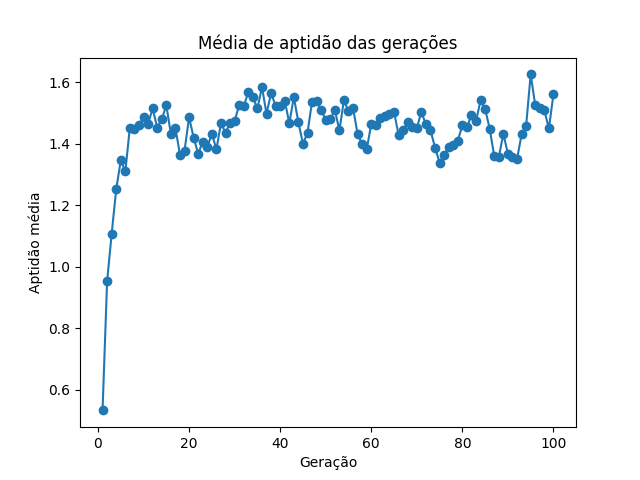
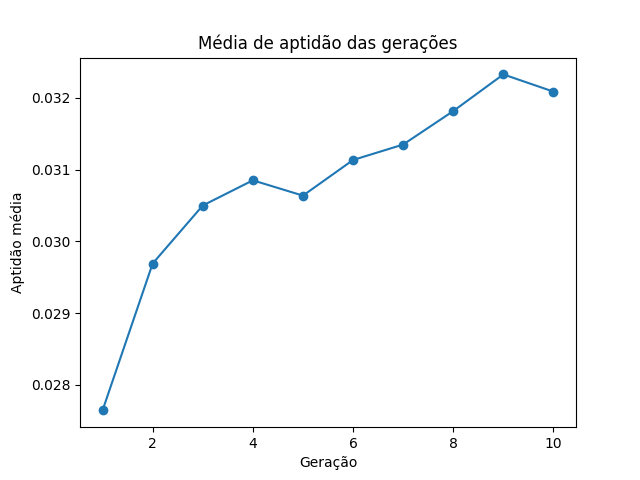
First commit.

diff --git a/database/database.py b/database/database.py
@@ -1,6 +1,7 @@
 from sqlalchemy import create_engine
 from sqlalchemy.orm import sessionmaker
 
+from models.availability import Availability
 from models.subject import Subject
 from models.teacher import Teacher
 from models.lesson import Lesson
@@ -13,6 +14,13 @@ class Database:
         self.engine = create_engine(SQLALCHEMY_URI)
         self.Session = sessionmaker(bind=self.engine)
         self.session = self.Session()
+
+    def get_availability(self):
+        availabilities = self.session.query(Availability).all()
+
+        self.session.close()
+
+        return availabilities
 
     def get_teachers(self):
         teachers = self.session.query(Teacher).all()
@@ -36,7 +44,8 @@ class Database:
         return lessons
 
     def create_database(self):
-        Base.metadata.create_all(self.engine, tables=[Subject.__table__, Teacher.__table__, Lesson.__table__])
+        Base.metadata.create_all(self.engine, tables=[Subject.__table__, Teacher.__table__, Lesson.__table__,
+                                                      Availability.__table__])
 
     def populate_database(self):
         teachers = [
@@ -51,16 +60,16 @@ class Database:
         ]
 
         subjects = [
-            Subject(id=1, name="FUNDAMENTOS DE MATEMÁTICA", code="FMAT", period=1, lessons_per_week=4),
-            Subject(id=2, name="ALGORITMOS E LÓGICA DE PROGRAMAÇÃO", code="ALGLP", period=1, lessons_per_week=6),
-            Subject(id=3, name="LÓGICA", code="LOG", period=1, lessons_per_week=4),
-            Subject(id=4, name="ESTRUTURA DE DADOS", code="ED", period=2, lessons_per_week=6),
-            Subject(id=5, name="INTRODUÇÃO A INFORMÁTICA", code="II", period=1, lessons_per_week=4),
-            Subject(id=6, name="TEORIA GERAL DA ADMINISTRAÇÃO", code="TGA", period=1, lessons_per_week=4),
-            Subject(id=7, name="FUNDAMENTOS DE SISTEMAS DE INFORMAÇÃO", code="FSI", period=2, lessons_per_week=4),
-            Subject(id=8, name="ORGANIZAÇÃO SISTEMAS E MÉTODOS", code="OSM", period=2, lessons_per_week=4),
-            Subject(id=9, name="PROGRAMAÇÃO ORIENTADA A OBJETOS I", code="POOI", period=2, lessons_per_week=4),
-            Subject(id=10, name="ÁLGEBRA LINEAR", code="AL", period=2, lessons_per_week=4)
+            Subject(id=1, name="FUNDAMENTOS DE MATEMÁTICA", code="FMAT", period=1, lessons_per_week=2),
+            Subject(id=2, name="ALGORITMOS E LÓGICA DE PROGRAMAÇÃO", code="ALGLP", period=1, lessons_per_week=3),
+            Subject(id=3, name="LÓGICA", code="LOG", period=1, lessons_per_week=2),
+            Subject(id=4, name="ESTRUTURA DE DADOS", code="ED", period=2, lessons_per_week=3),
+            Subject(id=5, name="INTRODUÇÃO A INFORMÁTICA", code="II", period=1, lessons_per_week=2),
+            Subject(id=6, name="TEORIA GERAL DA ADMINISTRAÇÃO", code="TGA", period=1, lessons_per_week=2),
+            Subject(id=7, name="FUNDAMENTOS DE SISTEMAS DE INFORMAÇÃO", code="FSI", period=2, lessons_per_week=2),
+            Subject(id=8, name="ORGANIZAÇÃO SISTEMAS E MÉTODOS", code="OSM", period=2, lessons_per_week=2),
+            Subject(id=9, name="PROGRAMAÇÃO ORIENTADA A OBJETOS I", code="POOI", period=2, lessons_per_week=2),
+            Subject(id=10, name="ÁLGEBRA LINEAR", code="AL", period=2, lessons_per_week=2)
 
         ]
 
@@ -77,7 +86,28 @@ class Database:
             Lesson(id=10, subject_id=10, teacher_id=8, semester="2012.1", teacher=teachers[7], subject=subjects[9])
         ]
 
+        availabilities = [
+            Availability(id=1, teacher_id=1, day_of_week=1, teacher=teachers[0]),
+            Availability(id=2, teacher_id=1, day_of_week=4, teacher=teachers[0]),
+            Availability(id=3, teacher_id=2, day_of_week=0, teacher=teachers[1]),
+            Availability(id=4, teacher_id=2, day_of_week=3, teacher=teachers[1]),
+            Availability(id=5, teacher_id=3, day_of_week=1, teacher=teachers[2]),
+            Availability(id=6, teacher_id=3, day_of_week=3, teacher=teachers[2]),
+            Availability(id=7, teacher_id=4, day_of_week=0, teacher=teachers[3]),
+            Availability(id=8, teacher_id=4, day_of_week=4, teacher=teachers[3]),
+            Availability(id=9, teacher_id=5, day_of_week=1, teacher=teachers[4]),
+            Availability(id=10, teacher_id=5, day_of_week=2, teacher=teachers[4]),
+            Availability(id=11, teacher_id=5, day_of_week=0, teacher=teachers[4]),
+            Availability(id=12, teacher_id=6, day_of_week=0, teacher=teachers[5]),
+            Availability(id=13, teacher_id=6, day_of_week=1, teacher=teachers[5]),
+            Availability(id=14, teacher_id=7, day_of_week=1, teacher=teachers[6]),
+            Availability(id=15, teacher_id=7, day_of_week=2, teacher=teachers[6]),
+            Availability(id=16, teacher_id=8, day_of_week=2, teacher=teachers[7]),
+            Availability(id=17, teacher_id=8, day_of_week=3, teacher=teachers[7]),
+        ]
+
         self.session.bulk_save_objects(teachers)
         self.session.bulk_save_objects(subjects)
         self.session.bulk_save_objects(lessons)
+        self.session.bulk_save_objects(availabilities)
         self.session.commit()

diff --git a/models/evaluation.py b/models/evaluation.py
@@ -24,8 +24,9 @@ class Evaluation:
             vp = self.sum_empty_lessons_between_lessons(period)
             up = self.sum_lessons_only_last_time(period)
             lp = self.sum_lessons_same_day(period)
+            pf = self.sum_preferences(period)
 
-            summation += ap + vp + up + lp
+            summation += ap + vp + up + lp + pf
 
         ch = self.sum_timing_clashes_between_periods()
         k = 10
@@ -228,6 +229,21 @@ class Evaluation:
                 if lessons_of_day[index_x] is not None and lessons_of_day[index_y] is not None:
                     if lesson_x.id == lesson_y.id:
                         total += 1
+        return total
+
+    @staticmethod
+    def sum_preferences(period):
+        total = 0
+        for day in range(WEEK_SIZE):
+            lessons_of_day = period[day]
+            for lesson in lessons_of_day:
+                if lesson is not None:
+                    result = False
+                    for availability in lesson.teacher.availabilities:
+                        if availability.day_of_week == day:
+                            result = True
+                        if not result:
+                            total += 1
         return total
 
     def sum_timing_clashes_between_periods(self):

diff --git a/models/availability.py b/models/availability.py
@@ -1,0 +1,14 @@
+from sqlalchemy import Column, Integer, ForeignKey
+from sqlalchemy.orm import relationship
+
+from models.teacher import Teacher
+from settings import Base
+
+
+class Availability(Base):
+    __tablename__ = 'availability'
+
+    id = Column(Integer, primary_key=True)
+    day_of_week = Column(Integer)
+    teacher_id = Column(Integer, ForeignKey('teacher.id'))
+    teacher = relationship(Teacher, backref="teacher_availability")

diff --git a/settings.py b/settings.py
@@ -1,9 +1,9 @@
 from sqlalchemy.ext.declarative import declarative_base
 
 
-SQLALCHEMY_URI = "mysql://root@localhost:3306/timetable?charset=utf8"
+SQLALCHEMY_URI = "mysql://root:password@localhost:3306/timetable?charset=utf8"
 POPULATION_SIZE = 100
-GENERATIONS_NUMBER = 100
+GENERATIONS_NUMBER = 10
 TOTAL_PERIODS = 2
 LESSONS_PER_DAY = 3
 LESSON_HOUR = 2

diff --git a/models/teacher.py b/models/teacher.py
@@ -11,3 +11,4 @@ class Teacher(Base):
     id = Column(Integer, primary_key=True)
     name = Column(String(255))
     lessons = relationship(Lesson, backref="teacher_lesson")
+    availabilities = relationship('Availability', lazy='subquery')

diff --git a/database/create_database.py b/database/create_database.py
@@ -1,0 +1,7 @@
+from database import Database
+
+database = Database()
+
+database.create_database()
+
+database.populate_database()

diff --git a/main.py b/main.py
@@ -1,4 +1,3 @@
-import itertools
 import time
 
 from prettytable import PrettyTable
